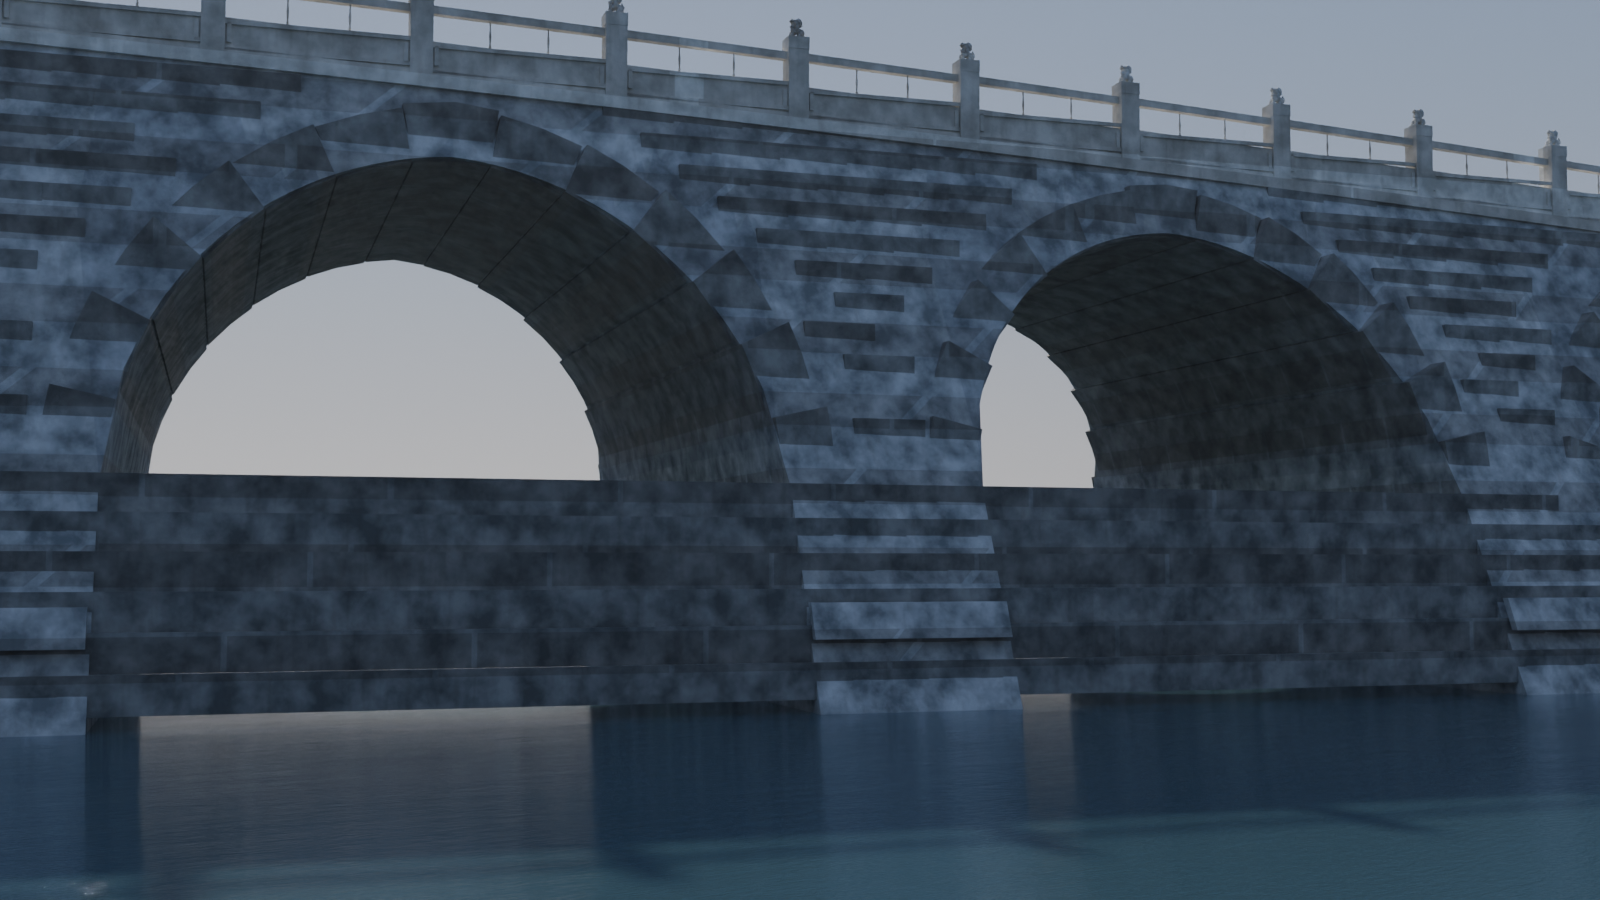
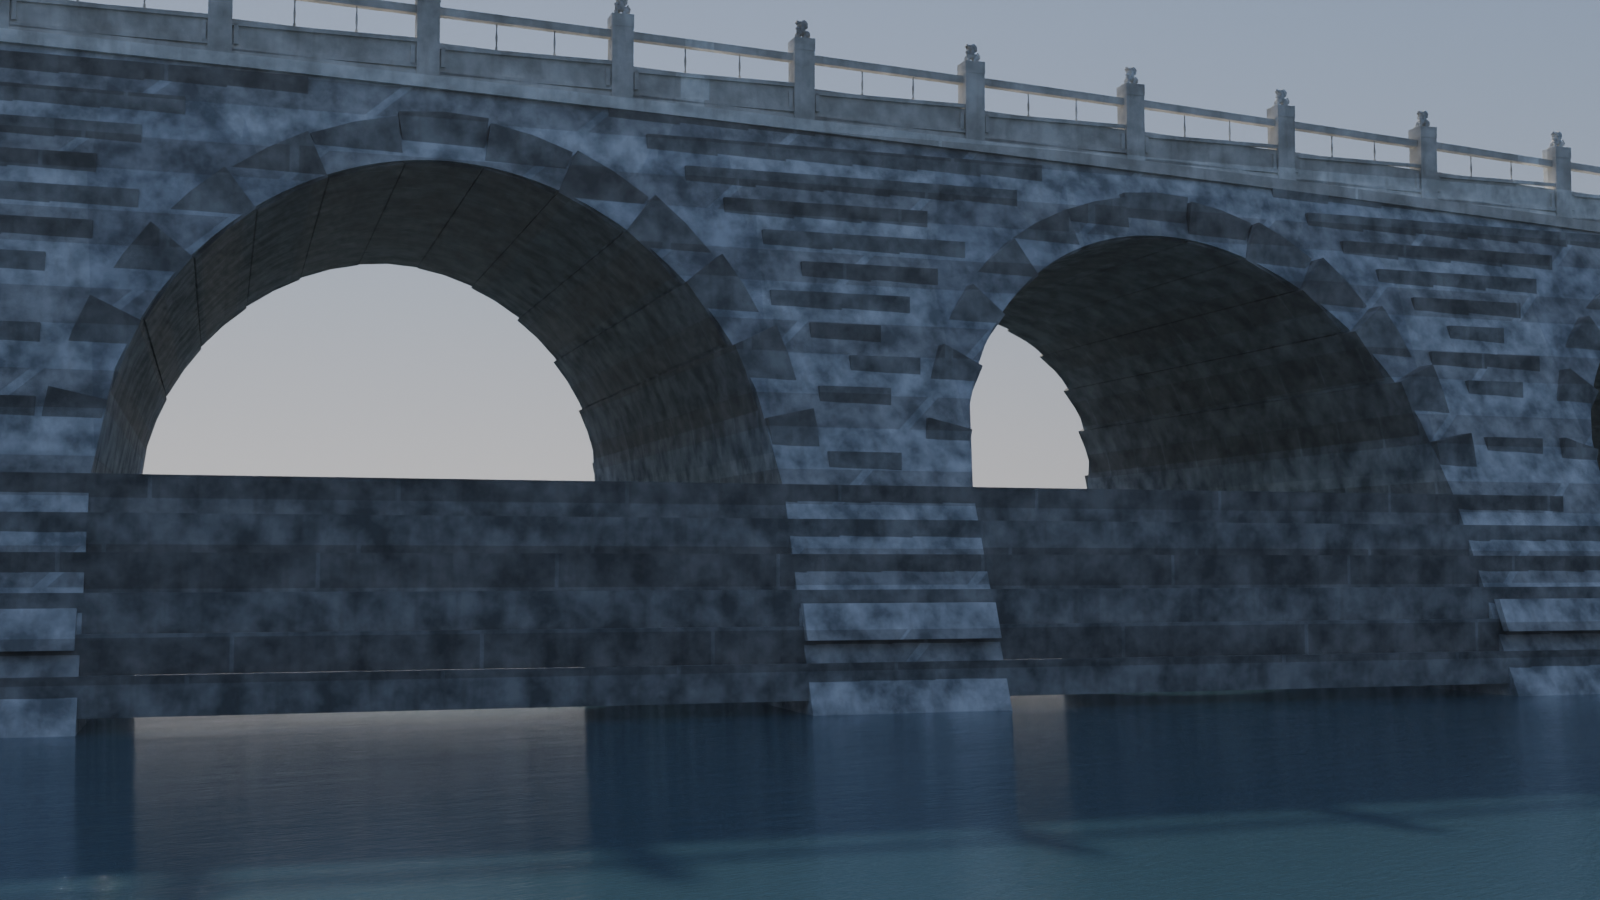
feat(e30): M15主控四刀——P0-2券脸0.62->0.54(-13%)+墩剖面v2(C2.17/E2.83对和5.0守恒, 端重新变重); P1-1冠钝化v2(s=min(0.4e,0.02a)角点局部+带宽封顶, e=0零污染, 折点带0°->8.5°->13°连续); P1-2放射缝前后端0.0125/0.004不等宽(深度100->~35去洋葱圈); P1-3材质100/28/15; **潜伏bug修**: b<a端孔两圆心公式静默退化成rise=a半圆(0.46设计意图丢失, void/券石/L2全链一致地错), 改单心平拱分支(圆心起拱线下e'=(a²-b²)/2b);

diff --git a/e30_shikongqiao_video/3d/masonry.py b/e30_shikongqiao_video/3d/masonry.py
@@ -28,7 +28,7 @@ VOUSSOIR_FACE_W = 1.00      # 兜底面宽(仅当目标表缺项时用)
 # [masonry_method 照片券缝计数] 每孔券石目标块数, 按|孔位-中央|索引: 中央17, 端7。
 # 统一面宽数学上给不出 7/17 两端(弧长比2.19≠块数比2.43)——真桥端孔块更宽, 故按孔给定。
 VOUSSOIR_TARGET = [17, 15, 13, 13, 11, 11, 9, 9, 7]
-RING_T = 0.62              # 券石径向厚(=券脸环带宽) m
+RING_T = 0.54              # [七审P0-2] 券脸径向宽 0.62->0.54(-13%): '轻一点的券环+更大孔占比', 厚重感一半来自环太宽
 JOINT = 0.02               # 灰缝 m
 FACE_DEPTH = 0.12          # 贴面石出墙面深度 m
 # [六审E] 券石改全深筒券: 真桥透洞可见阶梯状环石内壁, 原"前后薄浮雕"读成
@@ -36,6 +36,8 @@ FACE_DEPTH = 0.12          # 贴面石出墙面深度 m
 # 端面出墙面 FACE_PROUD(保留正面环带阴影)。
 BARREL_PROTRUDE = 0.03
 JOINT_GAP = 0.0125
+JOINT_GAP_BACK = 0.004     # [七审P1-2] 放射缝前后端不等宽: 前脸 0.0125, 内壁
+                           #   0.004 → 深度权重 100→~35, 去"洋葱圈隧道"感
 FACE_PROUD = 0.02
 COURSE_H = 0.40            # 砧石层高 m
 COURSE_W = 0.90            # 砧石宽 m
@@ -71,20 +73,23 @@ def _arc_stations(xc, a, b, springer, N):
 def _voussoir(bm, x0, x1, xc, springer, a, b, ring_t, lift=0.0):
     """一块全深放射券石: 内弧伸入洞口 BARREL_PROTRUDE(阶梯筒子券),
     外弧沿法向 ring_t+lift, 端面沿法向(放射缝), y 向贯通全墙并出墙面 FACE_PROUD。"""
-    ts = (x0, (x0+x1)/2.0, x1)
-    inner, outer = [], []
-    for x in ts:
-        z = G.arch_z(x, xc, springer, a, b)
-        nx, nz = _arch_normal(x, xc, springer, a, b)
-        inner.append((x - nx*BARREL_PROTRUDE, z - nz*BARREL_PROTRUDE))
-        outer.append((x + nx*(ring_t+lift), z + nz*(ring_t+lift)))
-    ring = inner + list(reversed(outer))
-    zs = [z for _, z in ring]; zmid = sum(zs)/len(zs)
+    def _ring(x0f, x1f):
+        ts = (x0f, (x0f+x1f)/2.0, x1f)
+        inner, outer = [], []
+        for x in ts:
+            z = G.arch_z(x, xc, springer, a, b)
+            nx, nz = _arch_normal(x, xc, springer, a, b)
+            inner.append((x - nx*BARREL_PROTRUDE, z - nz*BARREL_PROTRUDE))
+            outer.append((x + nx*(ring_t+lift), z + nz*(ring_t+lift)))
+        return inner + list(reversed(outer))
+    rf = _ring(x0 + JOINT_GAP, x1 - JOINT_GAP)          # 前脸环(缝宽)
+    rb = _ring(x0 + JOINT_GAP_BACK, x1 - JOINT_GAP_BACK)  # 内壁环(缝窄→衰减)
+    zs = [z for _, z in rf]; zmid = sum(zs)/len(zs)
     hw = _hw(xc, zmid)
     y0, y1 = -(hw + FACE_PROUD), hw + FACE_PROUD
-    va = [bm.verts.new((x, y0, z)) for x, z in ring]
-    vb = [bm.verts.new((x, y1, z)) for x, z in ring]
-    m = len(ring)
+    va = [bm.verts.new((x, y0, z)) for x, z in rb]
+    vb = [bm.verts.new((x, y1, z)) for x, z in rf]
+    m = len(rf)
     for k in range(m):
         k2 = (k+1) % m
         try: bm.faces.new((va[k], va[k2], vb[k2], vb[k]))
@@ -117,7 +122,7 @@ def build_voussoir(bm, hw_front, half_depth):
         counts.append(N)
         st = _arc_stations(xc, a, b, spz, N)
         for k in range(N):
-            _voussoir(bm, st[k] + JOINT_GAP, st[k+1] - JOINT_GAP, xc, spz, a, b, RING_T,
+            _voussoir(bm, st[k], st[k+1], xc, spz, a, b, RING_T,
                       lift=0.07 if k == N//2 else 0.0)
     return counts
 

diff --git a/e30_shikongqiao_video/3d/build_scene2.py b/e30_shikongqiao_video/3d/build_scene2.py
@@ -279,11 +279,13 @@ def build():
     # albedo 走 qingshi_material 冷灰蓝; 栏杆/望柱/狮=汉白玉不变。
     # [六审B] 砌缝视觉三级层级(要求 券石100%/横缝40-50%/竖缝20-30%, 此前普通
     # 缝~60-70% 抢券石的戏): 几何 2068+ 块全保留, 只调材质权重。
-    m_body = MAT.qingshi_material("stone_body", block_var=0.20)   # 本体最弱: 去斑驳
+    # [七审P1-3] 层级再降一级 100/40/25 -> 100/28/15; 券石"100"不再靠更黑的缝,
+    # 靠楔形节奏+几何出入(筒券/放射缝), joint 0.026->0.020 bump 0.75->0.65。
+    m_body = MAT.qingshi_material("stone_body", block_var=0.14)
     m_ring = MAT.qingshi_material("stone_ring", (0.362, 0.392, 0.426),
-                                  joint=0.026, block_var=0.30, bump_strength=0.75)
-    m_course = MAT.qingshi_material("stone_course", (0.335, 0.368, 0.404),
-                                    joint=0.011, block_var=0.10, bump_strength=0.26)
+                                  joint=0.020, block_var=0.26, bump_strength=0.65)
+    m_course = MAT.qingshi_material("stone_course", (0.345, 0.376, 0.410),
+                                    joint=0.008, block_var=0.06, bump_strength=0.16)
     m_rail = MAT.marble_material("marble")
     m_water = MAT.water_material()
     m_earth = MAT.earth_material("shore_earth")

diff --git a/e30_shikongqiao_video/3d/bridge_geom2.py b/e30_shikongqiao_video/3d/bridge_geom2.py
@@ -66,7 +66,7 @@ _arc_pair = _F._arc_pair
 arch_z = _F.arch_z
 arch_dzdx = _F.arch_dzdx
 arch_signed_r = _F.arch_signed_r
-CROWN_BLUNT_S = _F.CROWN_BLUNT_S
+CROWN_BLUNT_K, CROWN_BLUNT_CAP = _F.CROWN_BLUNT_K, _F.CROWN_BLUNT_CAP
 
 
 def pier_w(i):
